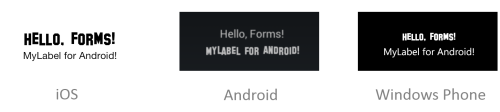
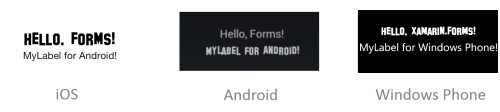
[working-with] fonts, make work on Windows Phone

Changed region(s): [[0.72, 0.0804, 1.0, 0.6696]]

diff --git a/WorkingWithFonts/WorkingWithFonts/FontPageCs.cs b/WorkingWithFonts/WorkingWithFonts/FontPageCs.cs
@@ -25,12 +25,12 @@ namespace WorkingWithFonts
 		public FontPageCs ()
 		{
 			var label = new Label {
-				Text = "Hello, Forms!",
+				Text = "Hello, Xamarin.Forms!",
 				FontFamily = Device.OnPlatform (
 					"SF Hollywood Hills",
 					null,
-					null
-				), // set only for iOS
+					@"\Assets\Fonts\SF Hollywood Hills.ttf#SF Hollywood Hills"
+				), // set for iOS & Windows Phone (Android done in custom renderer)
 				VerticalOptions = LayoutOptions.CenterAndExpand,
 				HorizontalOptions = LayoutOptions.CenterAndExpand,
 
@@ -42,10 +42,14 @@ namespace WorkingWithFonts
 			);
 
 			var myLabel = new MyLabel {
-				Text = "MyLabel for Android!",
 				VerticalOptions = LayoutOptions.CenterAndExpand,
 				HorizontalOptions = LayoutOptions.CenterAndExpand,
 			};
+            myLabel.Text = Device.OnPlatform(
+                "MyLabel for iOS!",
+                "MyLabel for Android!",
+                "MyLabel for Windows Phone!"
+            );
 			myLabel.FontSize = Device.OnPlatform (
 				Device.GetNamedSize (NamedSize.Small, myLabel),
 				Device.GetNamedSize (NamedSize.Medium, myLabel), // will get overridden in custom Renderer
